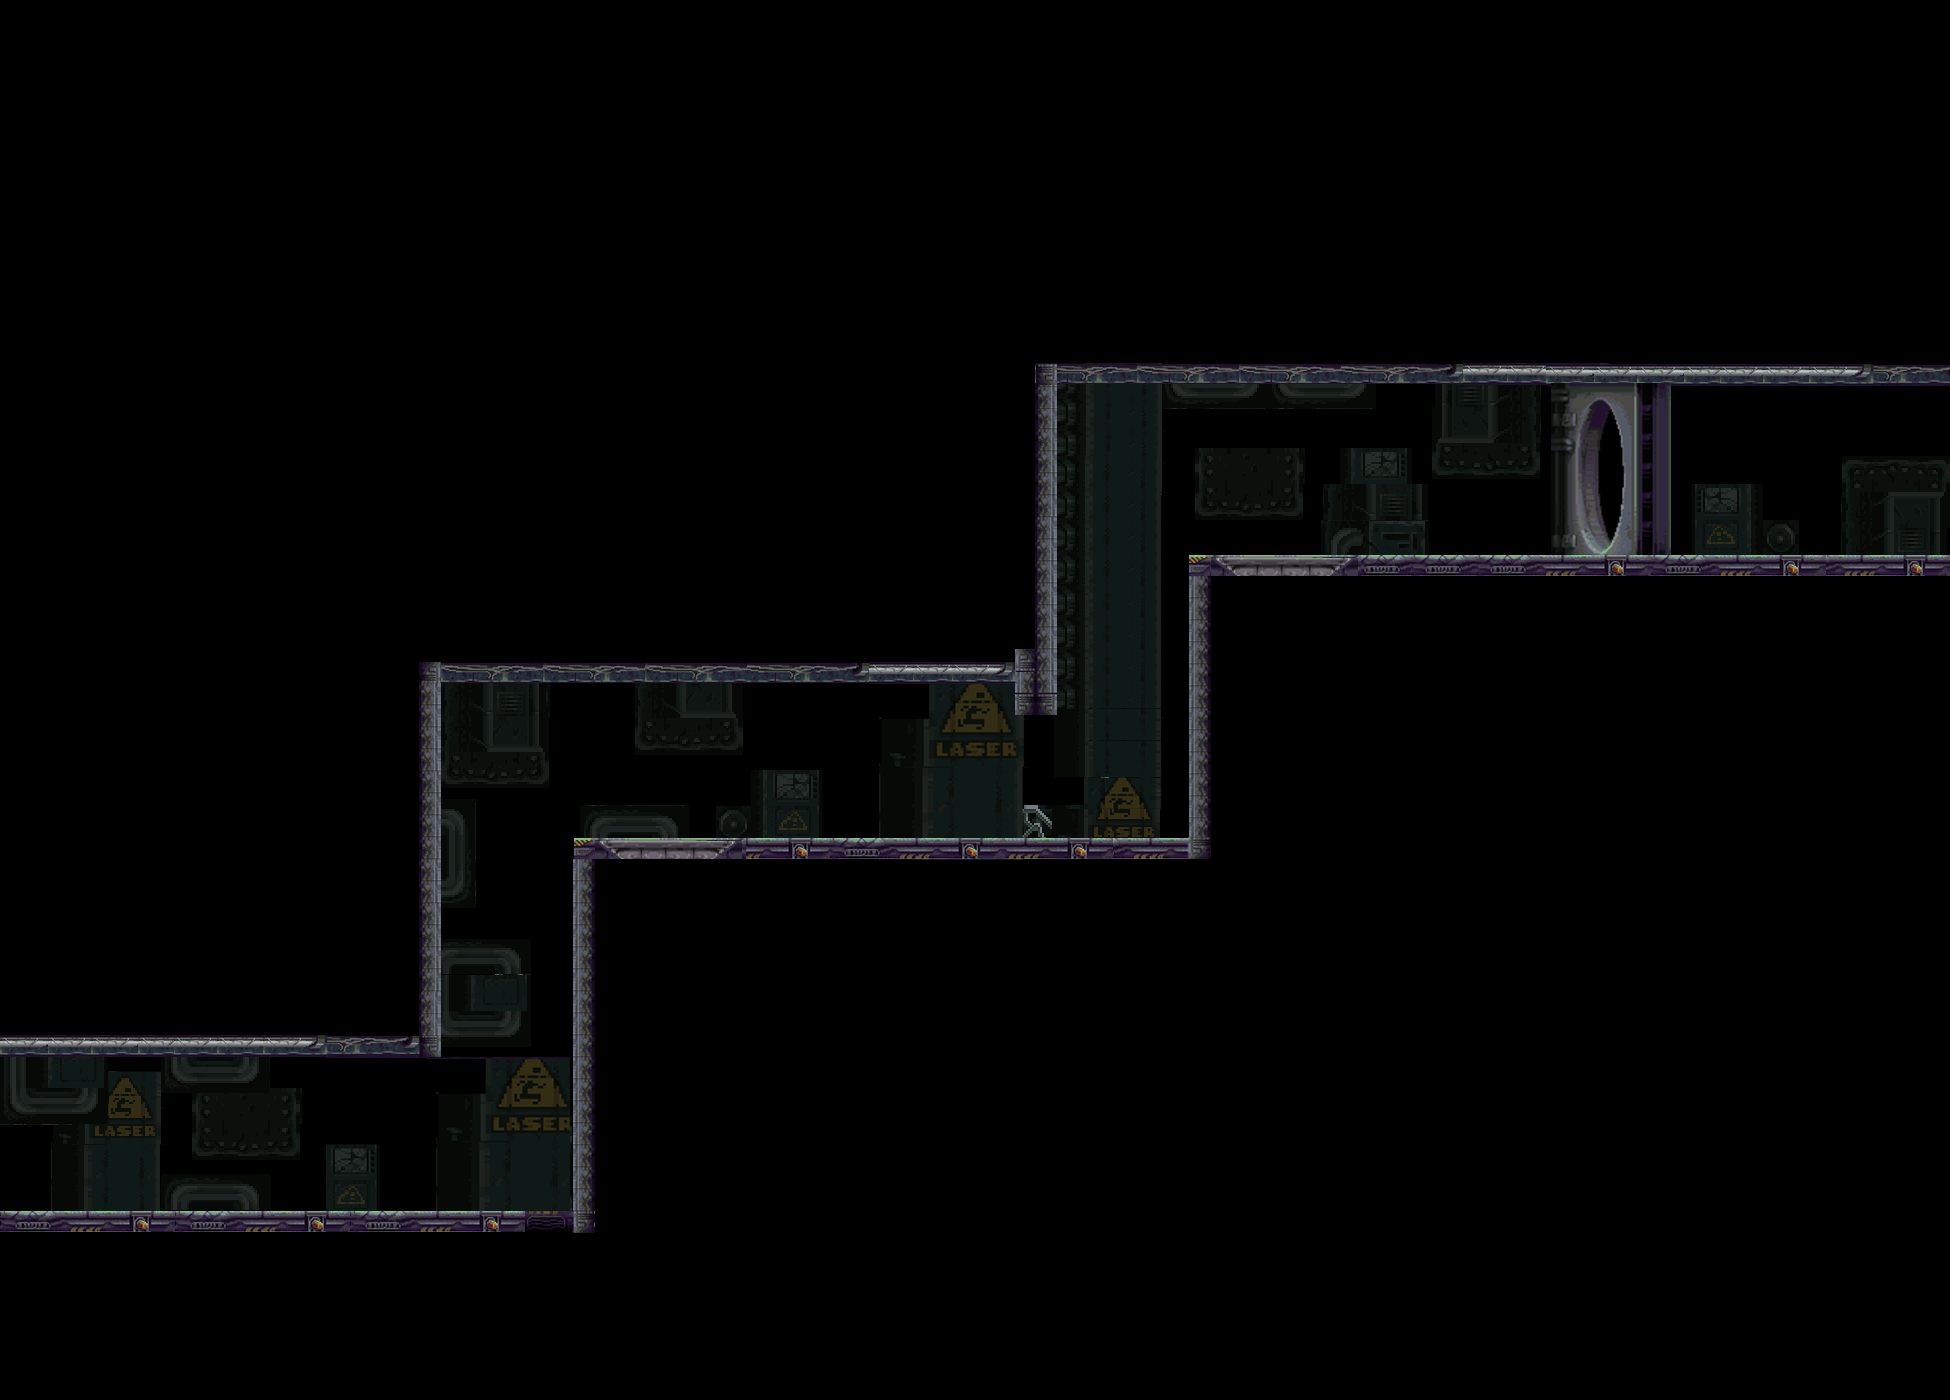
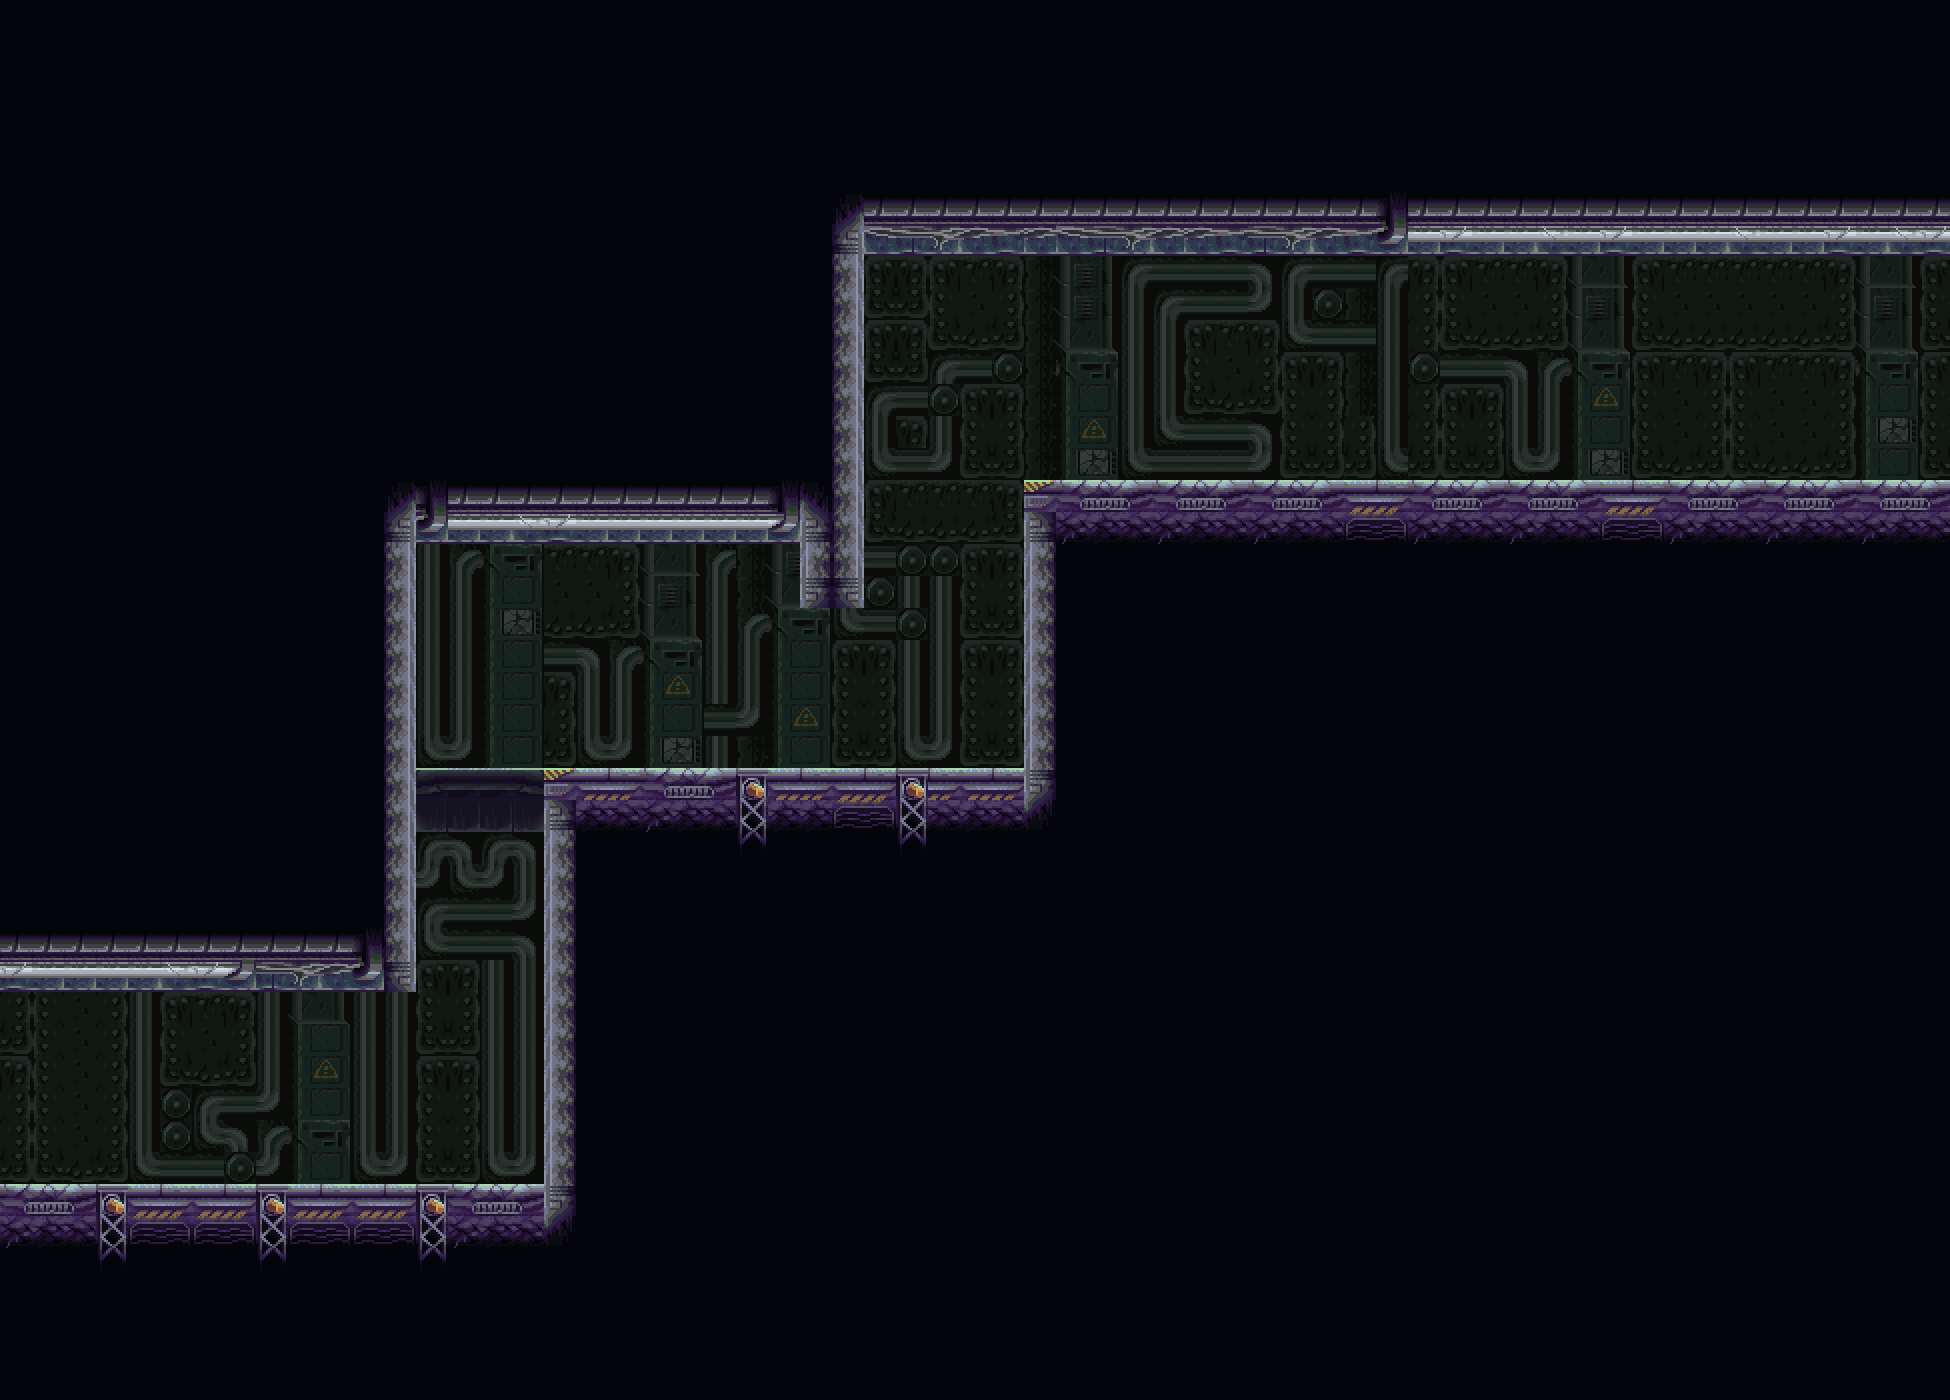
129
스테이지 텍스처 변경 및 위치 재조정

파티클 코드리뷰중

Changed region(s): [[0.0, 0.1229, 1.0, 0.8907]]

diff --git a/Engine_SOURCE/Stage1.cpp b/Engine_SOURCE/Stage1.cpp
@@ -57,8 +57,8 @@ namespace dru
 			std::shared_ptr<CMaterial> Material = std::make_shared<CMaterial>(L"stage1", L"SpriteShader");
 			CResources::Insert<CMaterial>(L"Stage1", Material);
 			SpriteRenderer->SetMaterial(Material);
-			mStageBackground->SetPos(Vector3(7.f, 5.f, 5.f));
-			mStageBackground->SetScale(Vector3(8.f, 8.f, 1.f));
+			mStageBackground->SetPos(Vector3(4.3f, 3.125f, 5.f));
+			mStageBackground->SetScale(Vector3(6.5f, 6.5f, 1.f));
 		}
 
 
@@ -183,19 +183,19 @@ namespace dru
 
 		{
 			CWall* Wall = object::Instantiate<CWall>(eLayerType::Platforms, L"wall");
-			Wall->SetPos(Vector3(0.85f, -0.49f, 3.f));
+			Wall->SetPos(Vector3(-1.05f, -1.1f, 3.f));
 			Wall->SetColliderScale({ 0.5f, 6.5f });
 		}
 
 		{
 			CWall* Wall = object::Instantiate<CWall>(eLayerType::Platforms, L"wall");
-			Wall->SetPos(Vector3(-1.8f, 1.8f, 3.f));
+			Wall->SetPos(Vector3(-3.2f, 1.8f, 3.f));
 			Wall->SetColliderScale({ 0.5f, 5.f });
 		}
 
 		{
 			CCeiling* Ceiling = object::Instantiate<CCeiling>(eLayerType::Platforms, L"ceiling");
-			Ceiling->SetPos(Vector3(-6.6f, -0.5f, 3.f));
+			Ceiling->SetPos(Vector3(-8.f, -0.47f, 3.f));
 			Ceiling->SetColliderScale({ 10.f, 0.4f });
 		}
 	}
@@ -204,7 +204,7 @@ namespace dru
 	{
 		{
 			CFloor* Floor = object::Instantiate<CFloor>(eLayerType::Platforms, L"floor");
-			Floor->SetPos(Vector3(5.63f, 2.58f, 3.f));
+			Floor->SetPos(Vector3(3.75f, 2.f, 3.f));
 			Floor->SetColliderScale({ 10.f, 0.4f });
 		}
 	}

diff --git a/Engine_SOURCE/StageTutorial.cpp b/Engine_SOURCE/StageTutorial.cpp
@@ -23,7 +23,7 @@ namespace dru
 		, mScreenMask(nullptr)
 		, mUIBg(nullptr)
 		, mTutorialtxt(nullptr)
-		, mTutorStage(TutorialStage::Attack)
+		, mTutorStage(TutorialStage::BulletTime)
 		, mTutorBg(nullptr)
 		, mTutorBgTarget(nullptr)
 		, mKeyLeft(nullptr)

diff --git a/Engine_SOURCE/ParticleSystem.h b/Engine_SOURCE/ParticleSystem.h
@@ -27,6 +27,7 @@ namespace dru
 		Vector4 mEndSize;
 		Vector4 mStartColor;
 		Vector4 mEndColor;
+
 		float mStartLifeTime;
 		float mFrequency;
 		float mTime;
